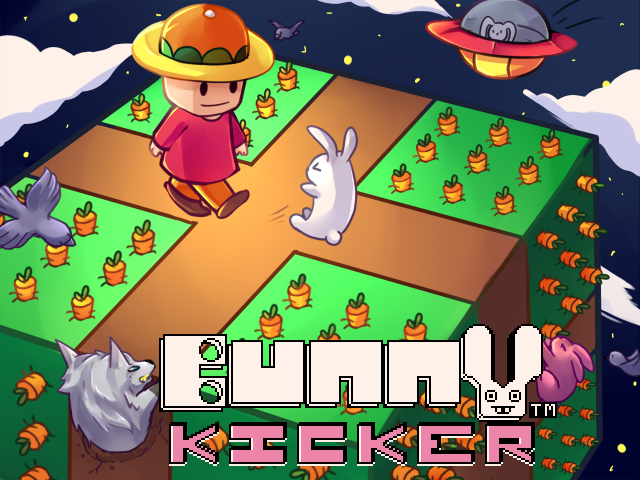
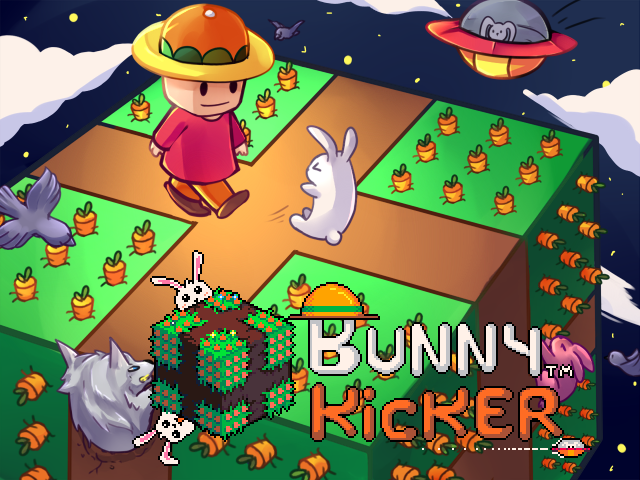
New games images added

Changed region(s): [[0.1875, 0.5, 0.9375, 0.9688]]

diff --git a/src/data/games.ts b/src/data/games.ts
@@ -295,7 +295,7 @@ export const games: Game[] = [
 
     media: {
       cover: "/games/bunny-kicker/cover.png",
-      titleScreen: "",
+      titleScreen: "/games/bunny-kicker/titlescreen.png",
 
       screenshots: [
         "/games/bunny-kicker/screenshots/01.png",
@@ -348,7 +348,7 @@ export const games: Game[] = [
 
     media: {
       cover: "/games/ecus/cover.png",
-      titleScreen: "",
+      titleScreen: "/games/ecus/titlescreen.png",
 
       screenshots: [
         "/games/ecus/screenshots/01.gif",
@@ -396,7 +396,7 @@ export const games: Game[] = [
 
     media: {
       cover: "/games/slime-labyrinth/cover.png",
-      titleScreen: "",
+      titleScreen: "/games/slime-labyrinth/titlescreen.png",
 
       screenshots: [
         "/games/slime-labyrinth/screenshots/01.png",
